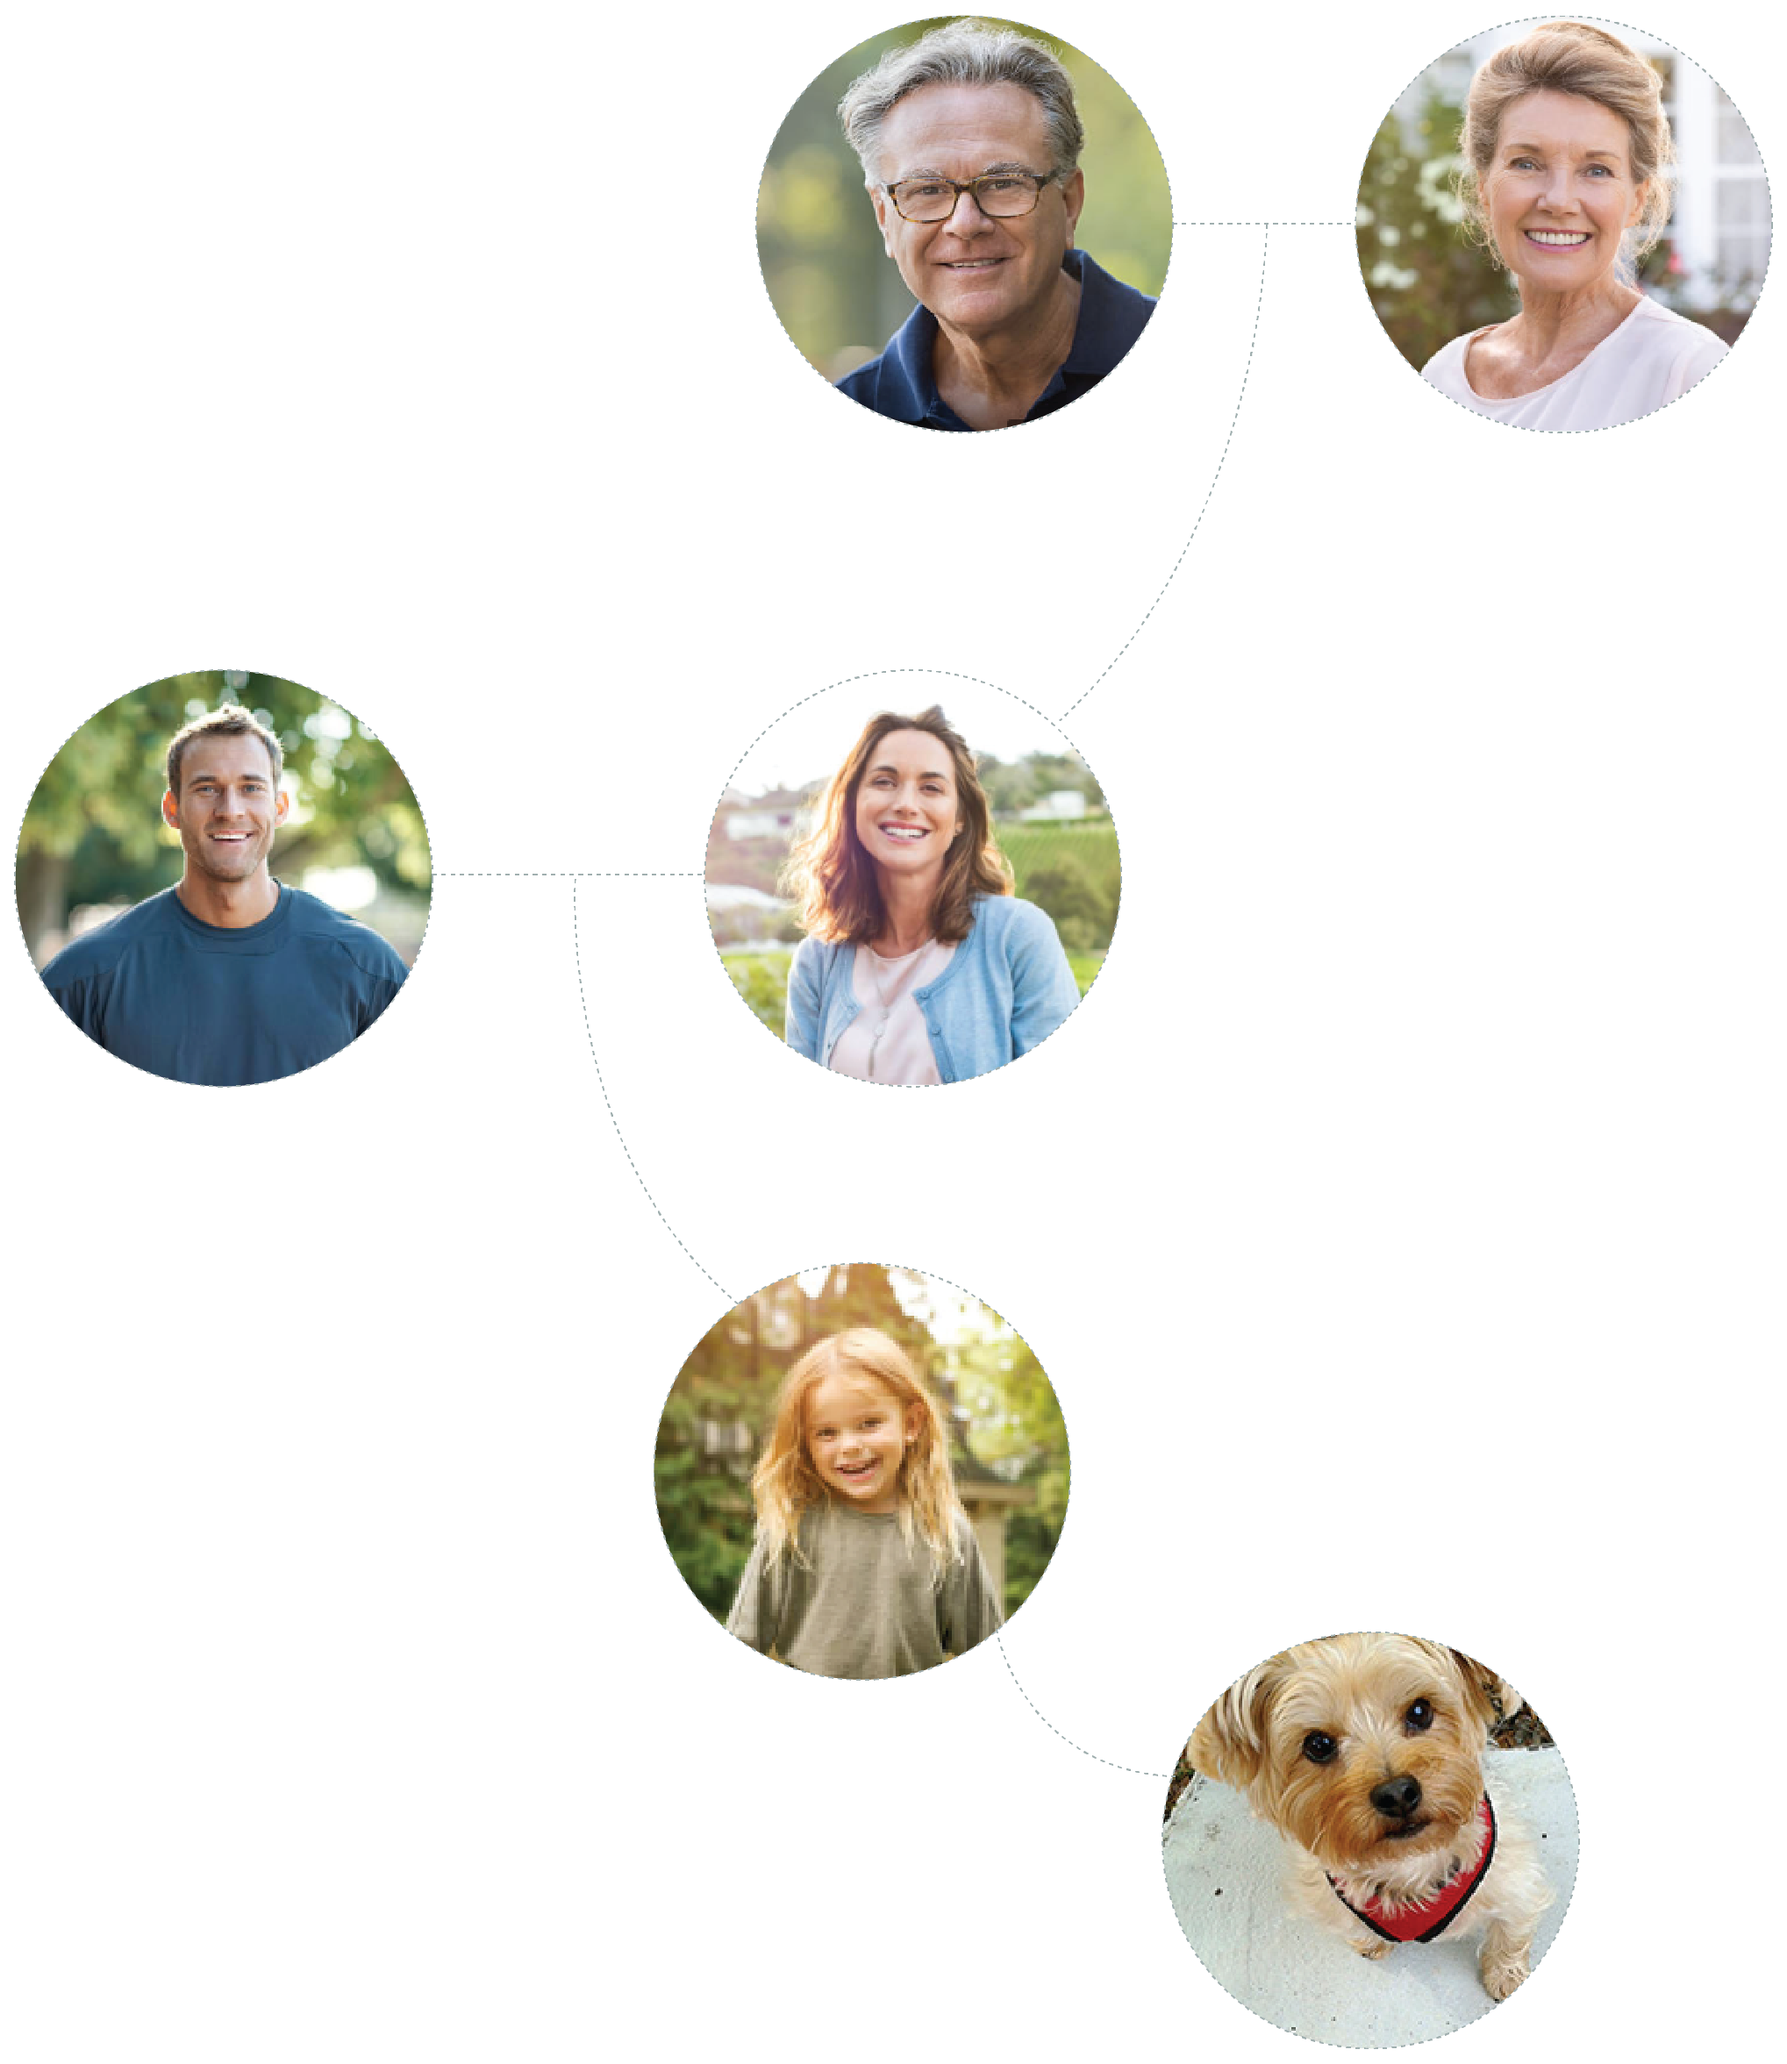
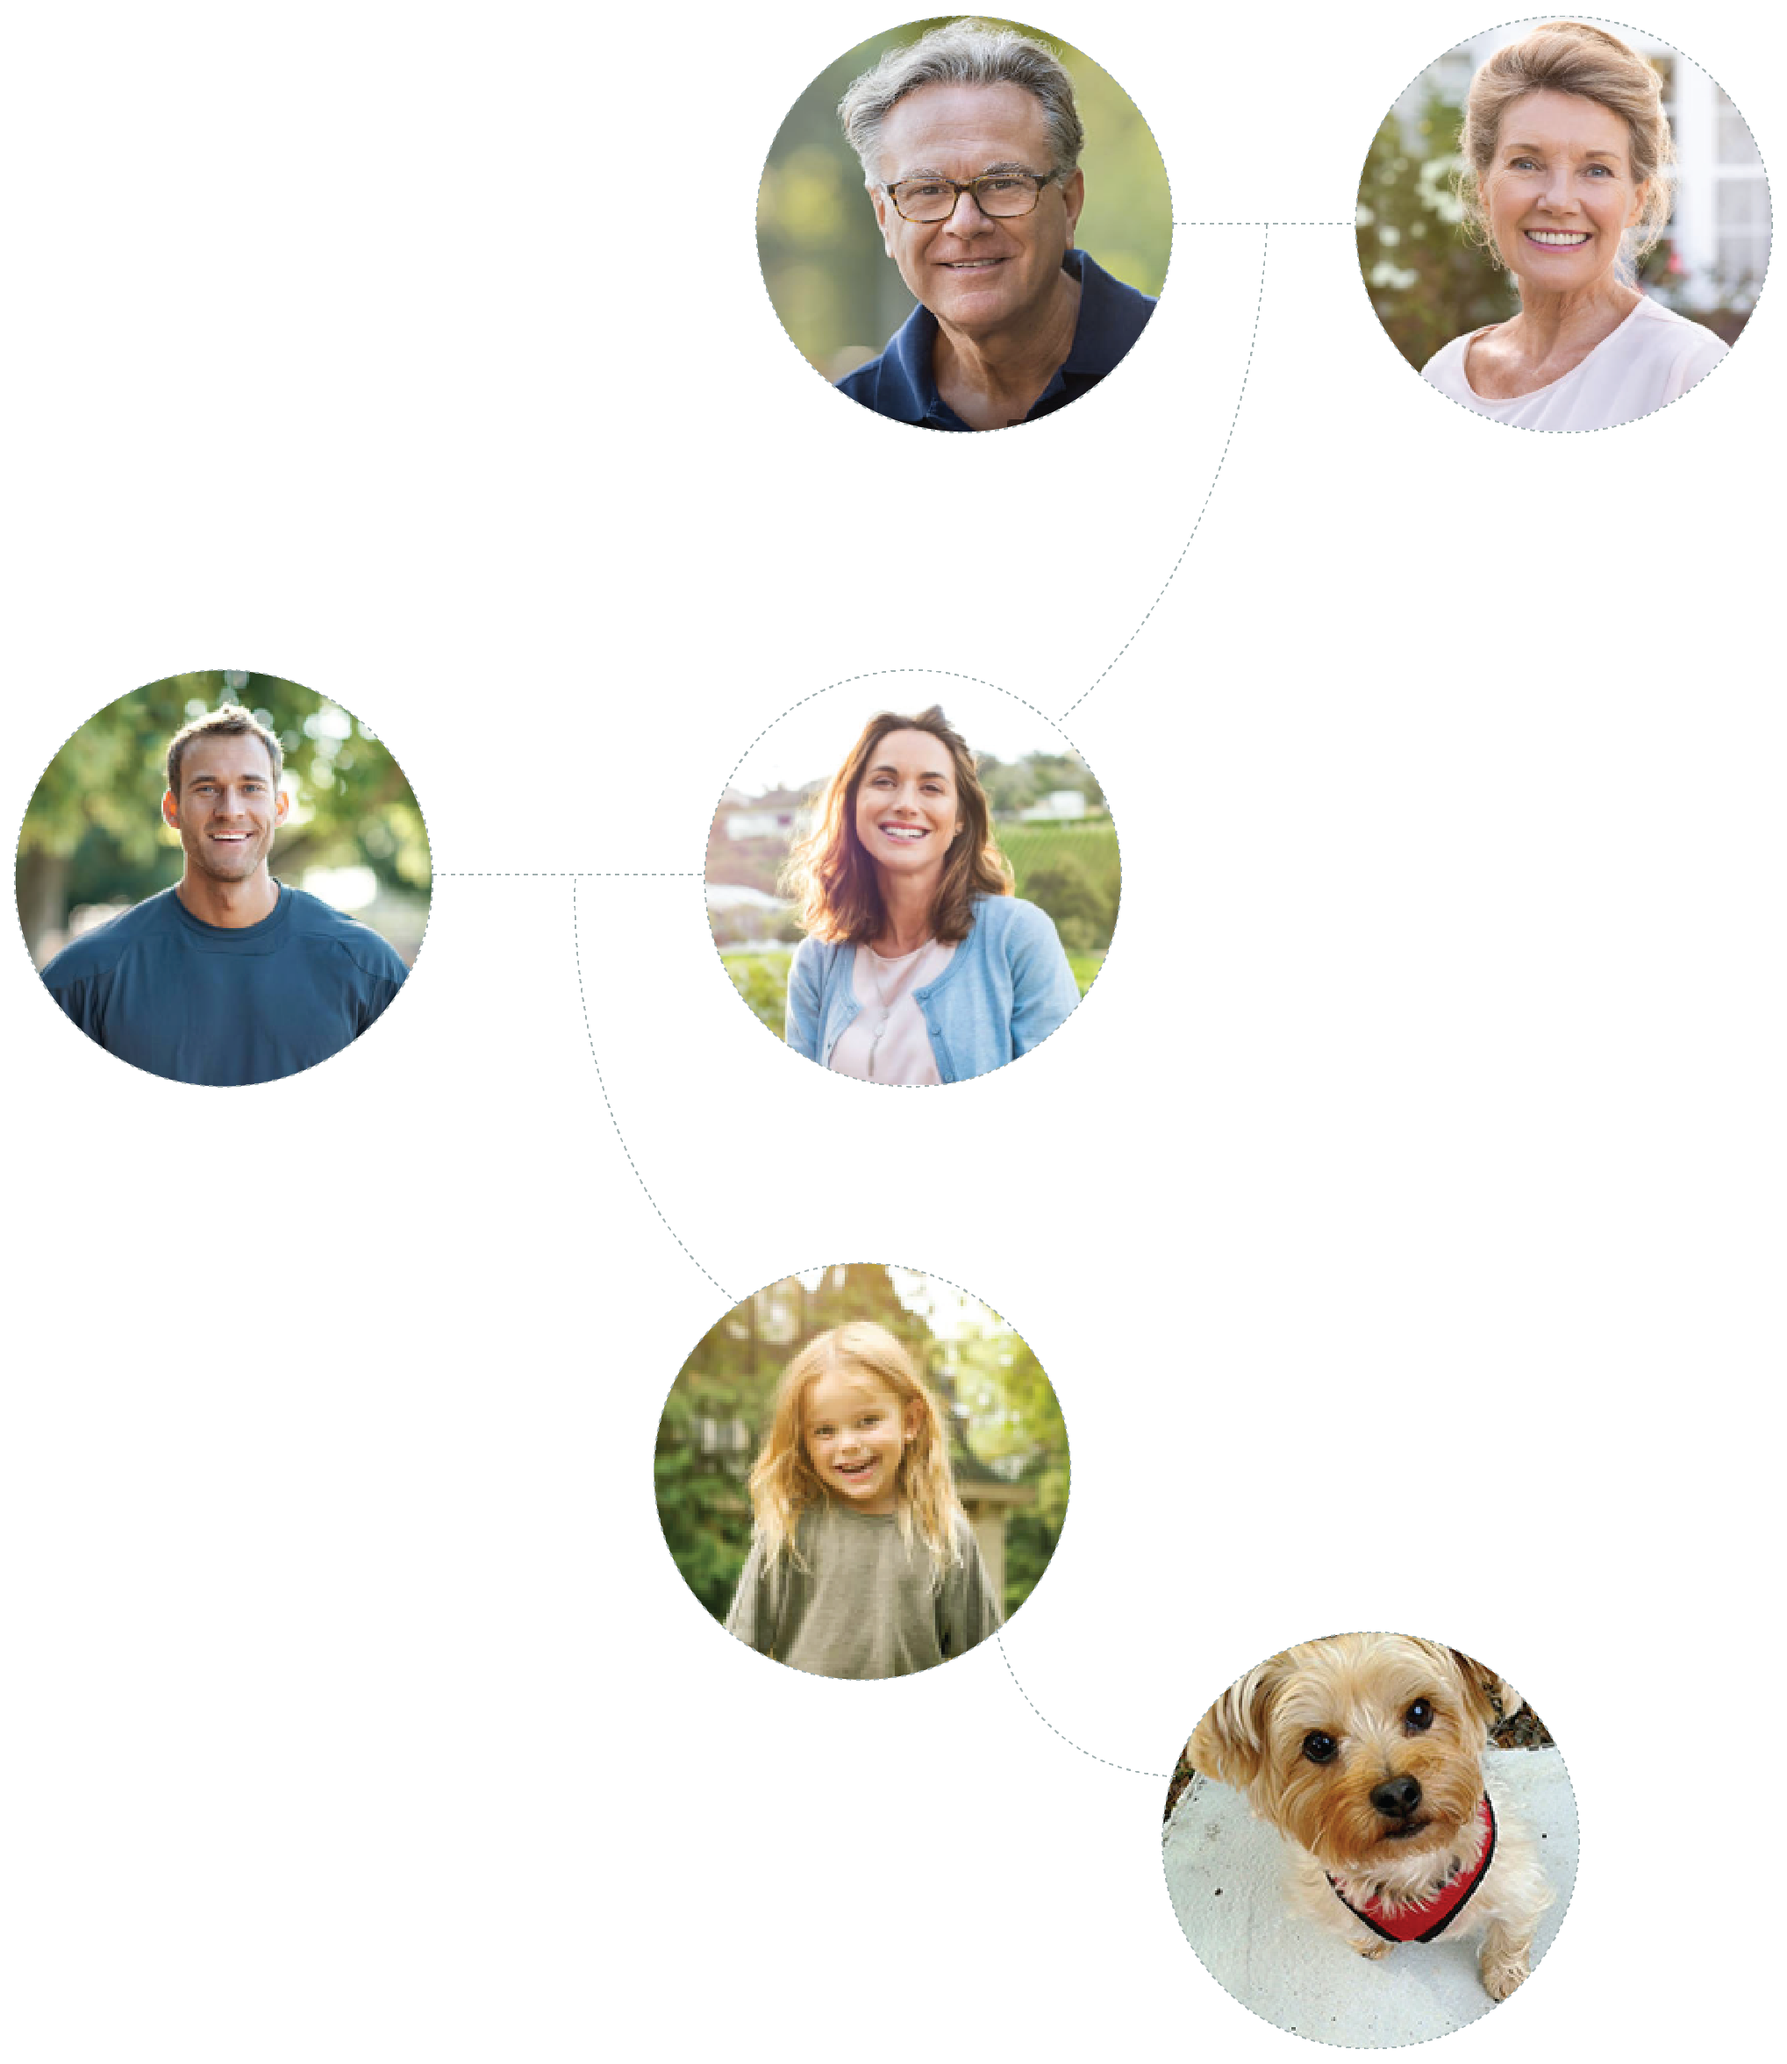
publish: modified gd photo, added phone number
generated from commit 96baf265b70843eae4b11be06d13293cc03271b1

Changed region(s): [[0.3711, 0.6205, 0.5876, 0.8066], [0.5258, 0.7446, 0.5567, 0.7756]]

diff --git a/index.html b/index.html
@@ -14,7 +14,7 @@
       <div class="container">
         <div class="navbar-header">
           <a href="#">Judy Hulsey | Family Wealth Strategist </a>
-          <i class="fa fa-phone fa-lg" aria-hidden="true"></i><a class="phone" href="222-333-4444"> 222-333-4444</a>
+          <i class="fa fa-phone fa-lg" aria-hidden="true"></i><a class="phone" href="407-694-7075"> 407-694-7075</a>
         </div>
         <ul class="nav navbar-nav navbar-right">
           <li><a href="#">About</a></li>
@@ -33,8 +33,8 @@
     <div class="container main-body">
       <div class="row tree">
         <h2 class="col-md-11 col-md-push-1">It's about <br/> your legacy.</h2>
-        <h2 class="col-md-4 col-md-push-8 protected">And that legacy ought to be protected and preserved through all generations.</h2>
-        <h2 class="col-md-9 regardless">...Regardless of <br/> how your family tree grows.</h2>
+        <h2 class="col-md-4 col-md-push-8 protected">And that legacy ought to be protected through all generations.</h2>
+        <h2 class="col-md-9 regardless">(regardless of <br/> how your family tree grows!)</h2>
       </div>
 
       <div>
@@ -54,7 +54,7 @@
           <img src="images/Hulsey_J.png" alt="profile-pic">
         </div>
         <div class="col-md-7 profile-text">
-          <h3>About Judy</h3>
+          <h3 class="about">About Judy</h3>
           <p>Lorem ipsum dolor sit amet, consectetur adipisicing elit. Quae, assumenda nemo voluptatem quis quas id obcaecati, doloremque consequatur magnam eos. Nobis debitis, ducimus non! Deleniti architecto, aperiam magni. Quos, porro. Quas id obcaecati, doloremque consequatur magnam.</p>
 
         </div>
@@ -62,7 +62,7 @@
     </div>
 
     <div class="footer">
-      <h3>Ready to Learn More? Call Judy at <a class="phone" href="222-333-4444">222-333-4444</a></h3>
+      <h3>Call Judy at <a class="phone" href="407-694-7075">407-694-7075</a></h3>
       <hr style="border-top: dotted 2px; margin: 0px 100px;" />
       <div class="social-media">
         <a href="https://www.facebook.com/judy.hubbard.hulsey"><img src="images/FB-f-Logo__white_29.png" alt="Facebook"></a>

diff --git a/css/app.css b/css/app.css
@@ -5817,8 +5817,7 @@ h2 {
   padding-top: 280px; }
 
 .ready {
-  color: white;
-  background-color: #2C637B;
+  color: #2C637B;
   padding: 20px;
   text-align: center; }
 
@@ -5836,11 +5835,15 @@ h2 {
   text-align: left;
   font-size: 20px; }
 
+.about {
+  font-weight: bold;
+  font-size: 25px; }
+
 .footer {
   background-color: #6C7B9A;
   color: white;
-  padding-top: 15px;
-  height: 100px;
+  padding-top: 25px;
+  height: 120px;
   text-align: center;
   height: 150px; }
 
